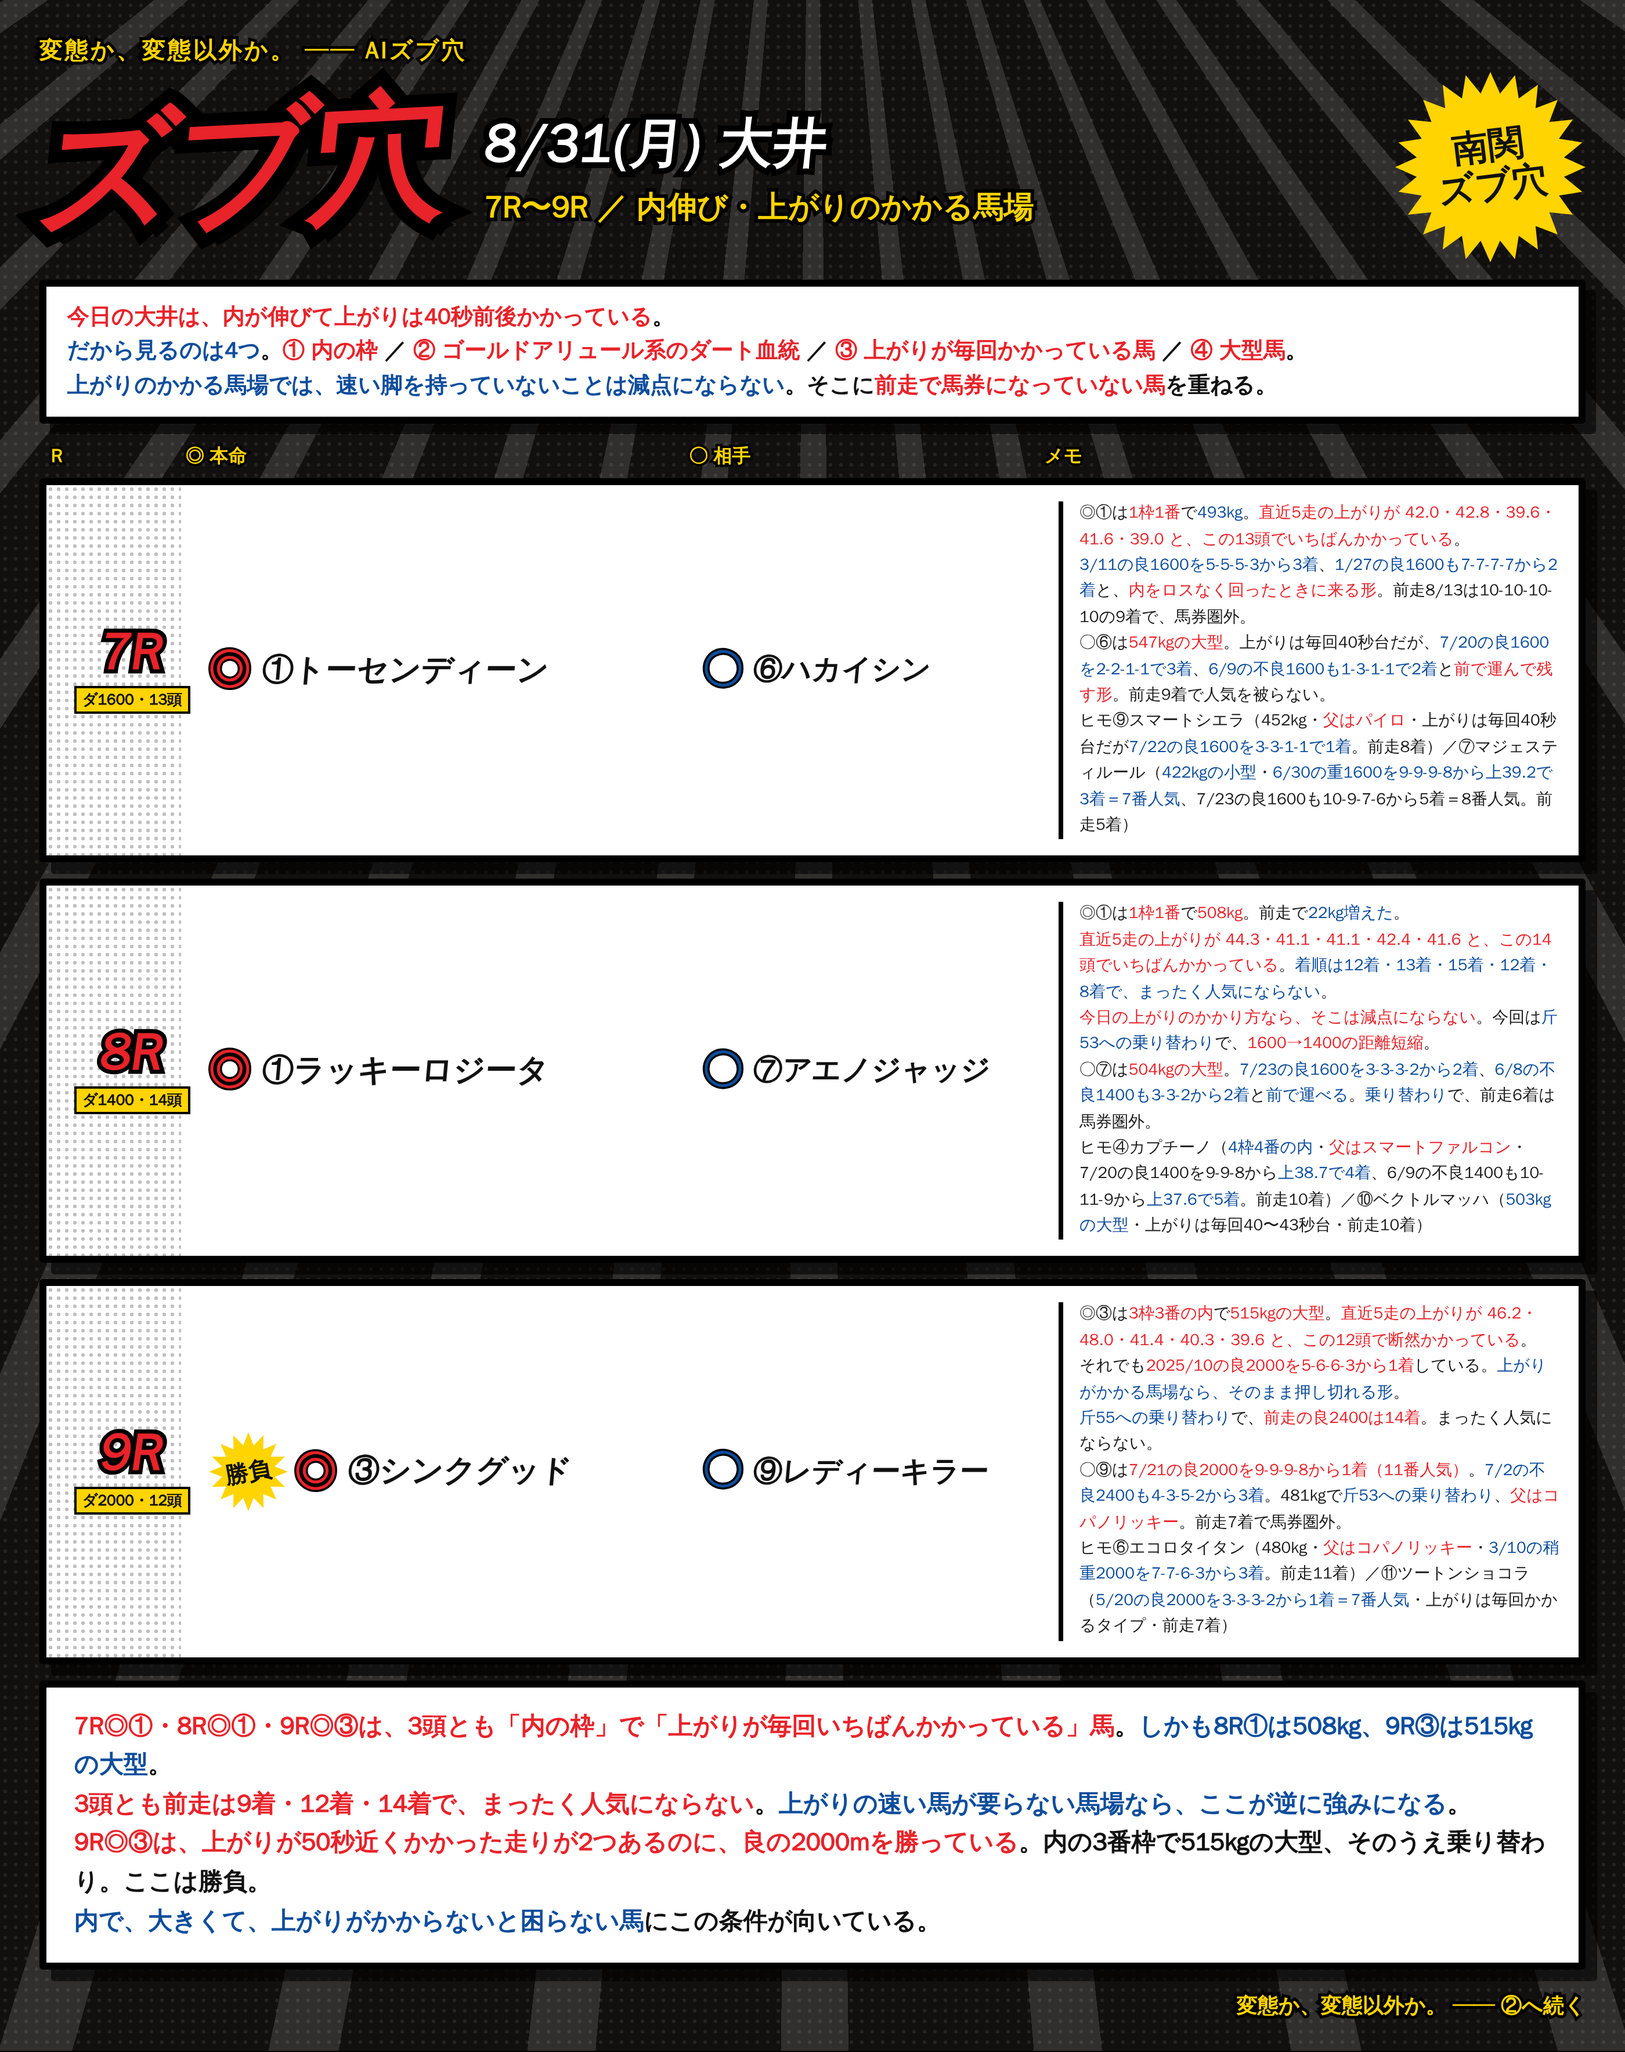
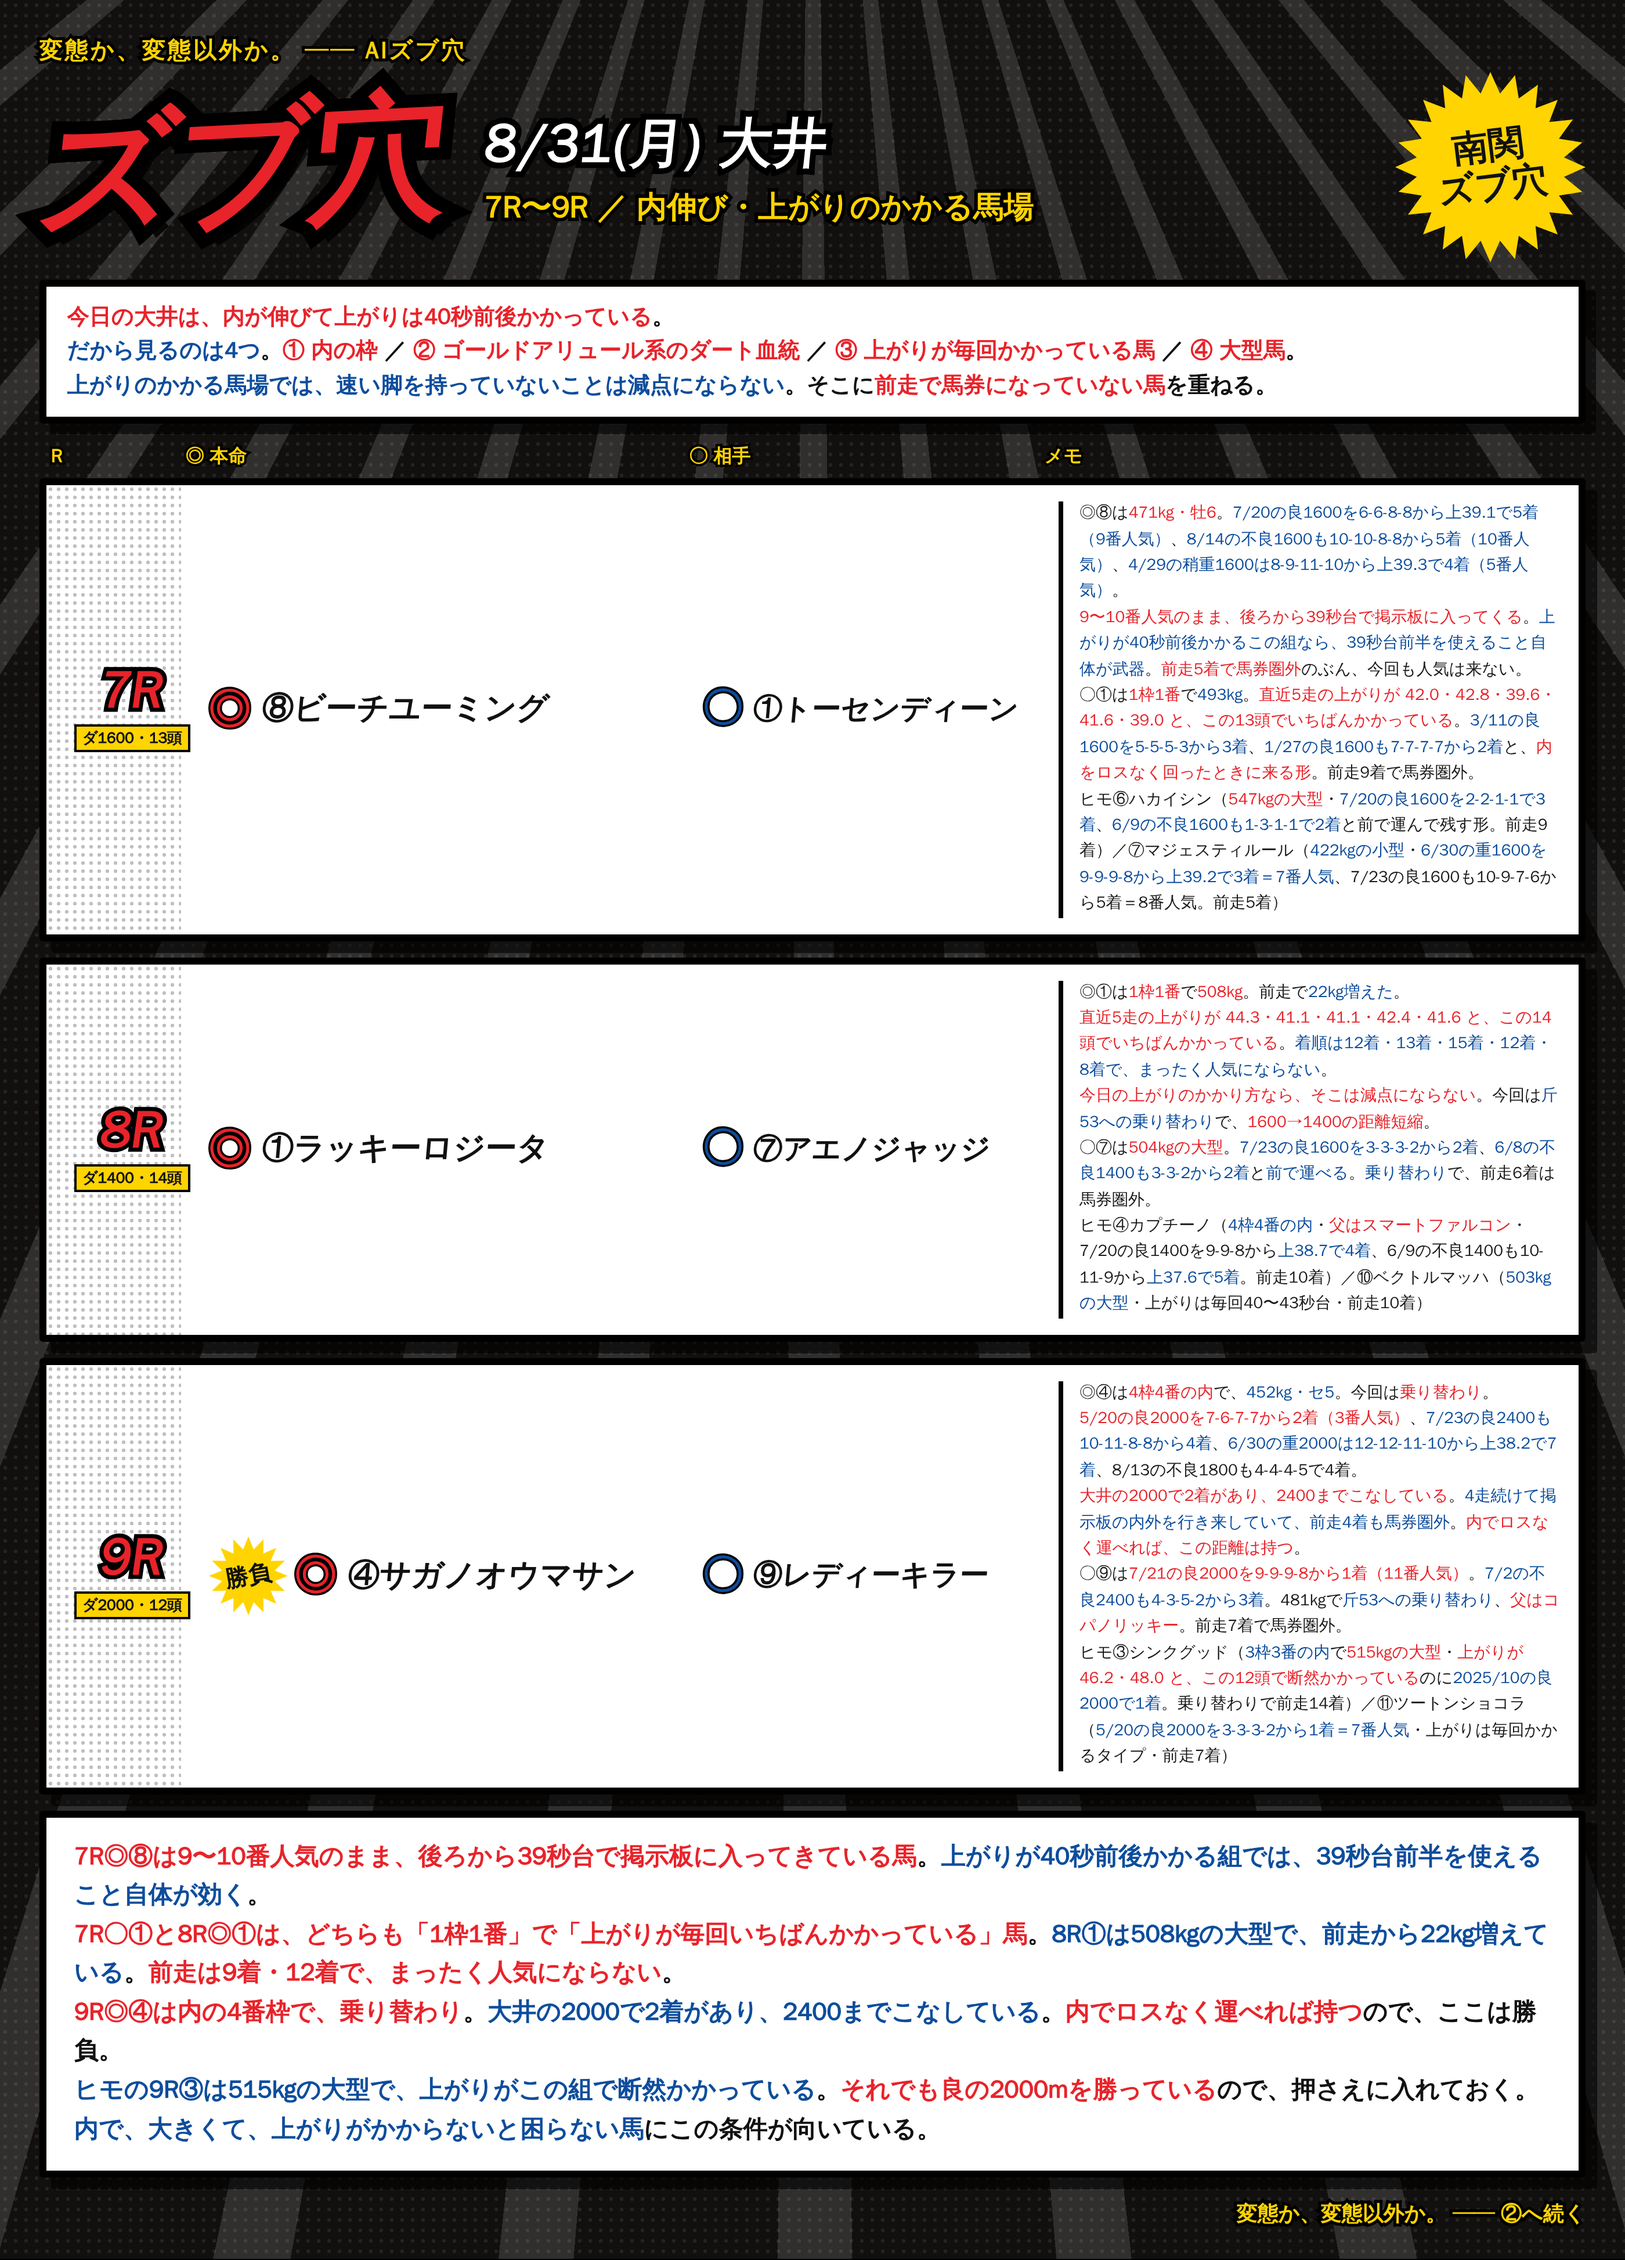
大井 8/31 7R◎を⑧ビーチユーミング、9R◎を④サガノオウマサンに変更
- 7R ◎⑧ビーチユーミング ○①トーセンディーン ヒモ⑥⑦
  ⑧は9〜10番人気のまま後ろから39秒台で掲示板圏。上がりが40秒前後かかる組では
  39秒台前半を使えること自体が武器。①は1枠1番で上がりが13頭で最もかかる馬として○へ
- 9R ◎④サガノオウマサン ○⑨レディーキラー ヒモ③⑪
  ④は内の4番枠・乗り替わりで、大井2000に2着（3番人気）があり2400までこなす。前走4着で馬券圏外
  ③シンクグッドはヒモへ
- ◎6頭とも前走で馬券になっていない点は維持
- README も同内容に更新

Claude-Session: https://claude.ai/code/session_01RoHscZkr96FNaxQWvUqgEw

diff --git a/notes/live/2026-08-31/oi_7_9.html b/notes/live/2026-08-31/oi_7_9.html
@@ -84,9 +84,9 @@
 
   <div class="row"><div class="corner"></div>
     <div class="rN"><div class="n">7R</div><div class="d">ダ1600・13頭</div></div>
-    <div class="hm"><span class="mk">◎</span><span class="nm">①トーセンディーン</span></div>
-    <div class="at"><span class="mk2">○</span><span class="nm2">⑥ハカイシン</span></div>
-    <div class="memo">◎①は<b class='r'>1枠1番</b>で<b>493kg</b>。<b class='r'>直近5走の上がりが 42.0・42.8・39.6・41.6・39.0 と、この13頭でいちばんかかっている</b>。<br><b>3/11の良1600を5-5-5-3から3着</b>、<b>1/27の良1600も7-7-7-7から2着</b>と、<b class='r'>内をロスなく回ったときに来る形</b>。前走8/13は10-10-10-10の9着で、馬券圏外。<br>○⑥は<b class='r'>547kgの大型</b>。上がりは毎回40秒台だが、<b>7/20の良1600を2-2-1-1で3着</b>、<b>6/9の不良1600も1-3-1-1で2着</b>と<b class='r'>前で運んで残す形</b>。前走9着で人気を被らない。<br>ヒモ⑨スマートシエラ（452kg・<b class='r'>父はパイロ</b>・上がりは毎回40秒台だが<b>7/22の良1600を3-3-1-1で1着</b>。前走8着）／⑦マジェスティルール（<b>422kgの小型</b>・<b>6/30の重1600を9-9-9-8から上39.2で3着＝7番人気</b>、7/23の良1600も10-9-7-6から5着＝8番人気。前走5着）</div>
+    <div class="hm"><span class="mk">◎</span><span class="nm">⑧ビーチユーミング</span></div>
+    <div class="at"><span class="mk2">○</span><span class="nm2">①トーセンディーン</span></div>
+    <div class="memo">◎⑧は<b class='r'>471kg・牡6</b>。<b>7/20の良1600を6-6-8-8から上39.1で5着（9番人気）</b>、<b>8/14の不良1600も10-10-8-8から5着（10番人気）</b>、<b>4/29の稍重1600は8-9-11-10から上39.3で4着（5番人気）</b>。<br><b class='r'>9〜10番人気のまま、後ろから39秒台で掲示板に入ってくる</b>。<b>上がりが40秒前後かかるこの組なら、39秒台前半を使えること自体が武器</b>。<b class='r'>前走5着で馬券圏外</b>のぶん、今回も人気は来ない。<br>○①は<b class='r'>1枠1番</b>で<b>493kg</b>。<b class='r'>直近5走の上がりが 42.0・42.8・39.6・41.6・39.0 と、この13頭でいちばんかかっている</b>。<b>3/11の良1600を5-5-5-3から3着</b>、<b>1/27の良1600も7-7-7-7から2着</b>と、<b class='r'>内をロスなく回ったときに来る形</b>。前走9着で馬券圏外。<br>ヒモ⑥ハカイシン（<b class='r'>547kgの大型</b>・<b>7/20の良1600を2-2-1-1で3着</b>、<b>6/9の不良1600も1-3-1-1で2着</b>と前で運んで残す形。前走9着）／⑦マジェスティルール（<b>422kgの小型</b>・<b>6/30の重1600を9-9-9-8から上39.2で3着＝7番人気</b>、7/23の良1600も10-9-7-6から5着＝8番人気。前走5着）</div>
   </div>
 
   <div class="row"><div class="corner"></div>
@@ -98,10 +98,10 @@
 
   <div class="row"><div class="corner"></div>
     <div class="rN"><div class="n">9R</div><div class="d">ダ2000・12頭</div></div>
-    <div class="hm"><div class="sb"><span>勝負</span></div><span class="mk">◎</span><span class="nm">③シンクグッド</span></div>
+    <div class="hm"><div class="sb"><span>勝負</span></div><span class="mk">◎</span><span class="nm">④サガノオウマサン</span></div>
     <div class="at"><span class="mk2">○</span><span class="nm2">⑨レディーキラー</span></div>
-    <div class="memo">◎③は<b class='r'>3枠3番の内</b>で<b class='r'>515kgの大型</b>。<b class='r'>直近5走の上がりが 46.2・48.0・41.4・40.3・39.6 と、この12頭で断然かかっている</b>。<br>それでも<b class='r'>2025/10の良2000を5-6-6-3から1着</b>している。<b>上がりがかかる馬場なら、そのまま押し切れる形</b>。<br><b>斤55への乗り替わり</b>で、<b class='r'>前走の良2400は14着</b>。まったく人気にならない。<br>○⑨は<b class='r'>7/21の良2000を9-9-9-8から1着（11番人気）</b>。<b>7/2の不良2400も4-3-5-2から3着</b>。481kgで<b>斤53への乗り替わり</b>、<b class='r'>父はコパノリッキー</b>。前走7着で馬券圏外。<br>ヒモ⑥エコロタイタン（480kg・<b class='r'>父はコパノリッキー</b>・<b>3/10の稍重2000を7-7-6-3から3着</b>。前走11着）／⑪ツートンショコラ（<b>5/20の良2000を3-3-3-2から1着＝7番人気</b>・上がりは毎回かかるタイプ・前走7着）</div>
+    <div class="memo">◎④は<b class='r'>4枠4番の内</b>で、<b>452kg・セ5</b>。今回は<b class='r'>乗り替わり</b>。<br><b class='r'>5/20の良2000を7-6-7-7から2着（3番人気）</b>、<b>7/23の良2400も10-11-8-8から4着</b>、<b>6/30の重2000は12-12-11-10から上38.2で7着</b>、8/13の不良1800も4-4-4-5で4着。<br><b class='r'>大井の2000で2着があり、2400までこなしている</b>。<b>4走続けて掲示板の内外を行き来していて、前走4着も馬券圏外</b>。<b class='r'>内でロスなく運べれば、この距離は持つ</b>。<br>○⑨は<b class='r'>7/21の良2000を9-9-9-8から1着（11番人気）</b>。<b>7/2の不良2400も4-3-5-2から3着</b>。481kgで<b>斤53への乗り替わり</b>、<b class='r'>父はコパノリッキー</b>。前走7着で馬券圏外。<br>ヒモ③シンクグッド（<b>3枠3番の内</b>で<b class='r'>515kgの大型</b>・<b class='r'>上がりが 46.2・48.0 と、この12頭で断然かかっている</b>のに<b>2025/10の良2000で1着</b>。乗り替わりで前走14着）／⑪ツートンショコラ（<b>5/20の良2000を3-3-3-2から1着＝7番人気</b>・上がりは毎回かかるタイプ・前走7着）</div>
   </div>
-<div class="foot"><span class="r">7R◎①・8R◎①・9R◎③は、3頭とも「内の枠」で「上がりが毎回いちばんかかっている」馬</span>。<span class="b">しかも8R①は508kg、9R③は515kgの大型</span>。<br><span class="r">3頭とも前走は9着・12着・14着で、まったく人気にならない</span>。<span class="b">上がりの速い馬が要らない馬場なら、ここが逆に強みになる</span>。<br><span class="r">9R◎③は、上がりが50秒近くかかった走りが2つあるのに、良の2000mを勝っている</span>。内の3番枠で515kgの大型、そのうえ乗り替わり。ここは勝負。<br><span class="b">内で、大きくて、上がりがかからないと困らない馬</span>にこの条件が向いている。</div>
+<div class="foot"><span class="r">7R◎⑧は9〜10番人気のまま、後ろから39秒台で掲示板に入ってきている馬</span>。<span class="b">上がりが40秒前後かかる組では、39秒台前半を使えること自体が効く</span>。<br><span class="r">7R○①と8R◎①は、どちらも「1枠1番」で「上がりが毎回いちばんかかっている」馬</span>。<span class="b">8R①は508kgの大型で、前走から22kg増えている</span>。<span class="r">前走は9着・12着で、まったく人気にならない</span>。<br><span class="r">9R◎④は内の4番枠で、乗り替わり</span>。<span class="b">大井の2000で2着があり、2400までこなしている</span>。<span class="r">内でロスなく運べれば持つ</span>ので、ここは勝負。<br><span class="b">ヒモの9R③は515kgの大型で、上がりがこの組で断然かかっている</span>。<span class="r">それでも良の2000mを勝っている</span>ので、押さえに入れておく。<br><span class="b">内で、大きくて、上がりがかからないと困らない馬</span>にこの条件が向いている。</div>
 <div class="sig">変態か、変態以外か。 ── ②へ続く</div>
 </div></div></body></html>

diff --git a/notes/live/2026-08-31/README.md b/notes/live/2026-08-31/README.md
@@ -349,17 +349,19 @@
 
 | R | 条件 | ◎ 本命 | ○ 相手 | ヒモ |
 |---|---|---|---|---|
-| 7R | ダ1600・13頭 | ①トーセンディーン | ⑥ハカイシン | ⑨⑦ |
+| 7R | ダ1600・13頭 | ⑧ビーチユーミング | ①トーセンディーン | ⑥⑦ |
 | 8R | ダ1400・14頭 | ①ラッキーロジータ | ⑦アエノジャッジ | ④⑩ |
-| 9R **勝負** | ダ2000・12頭 | ③シンクグッド | ⑨レディーキラー | ⑥⑪ |
+| 9R **勝負** | ダ2000・12頭 | ④サガノオウマサン | ⑨レディーキラー | ③⑪ |
 | 10R | ダ1200・15頭 | ①クライスラー | ⑪ミュークエンペラー | ③⑩ |
 | 11R | ダ1400・14頭 | ⑦ゴールドジャッジ | ⑭マイネルボンバー | ⑬② |
 | 12R **勝負** | ダ1800・16頭 | ⑤アーススピリット | ⑭ケイアイエルナト | ④⑪ |
 
-- **7R◎①・8R◎①・9R◎③・10R◎①は、内の枠でその組の上がりが最もかかっている馬**
-- **8R◎①は508kg、9R◎③は515kg、11R◎⑦は506kg、12R◎⑤は546kg** の大型
-- **◎6頭とも前走で馬券になっていない**（9着・12着・14着・11着・5着・5着）
-- ゴールドアリュール系：9R◎⑨（父コパノリッキー）・10R○⑪（母父ゴールドアリュール）・
+- **7R○①・8R◎①・10R◎①は、1枠1番でその組の上がりが最もかかっている馬**
+- **7R◎⑧は9〜10番人気のまま、後ろから39秒台で掲示板に入ってきている馬**
+- **9R◎④は内の4番枠・乗り替わりで、大井2000に2着がある**
+- **8R◎①は508kg、11R◎⑦は506kg、12R◎⑤は546kg** の大型（9Rヒモ③も515kg）
+- **◎6頭とも前走で馬券になっていない**（5着・12着・4着・11着・5着・5着）
+- ゴールドアリュール系：9R○⑨（父コパノリッキー）・10R○⑪（母父ゴールドアリュール）・
   11R◎⑦（父エスポワールシチー）・12R◎⑤（母父ゴールドアリュール）・12R○⑭（父シニスターミニスター）
 - **勝負は9Rと12Rの2つ**
 
